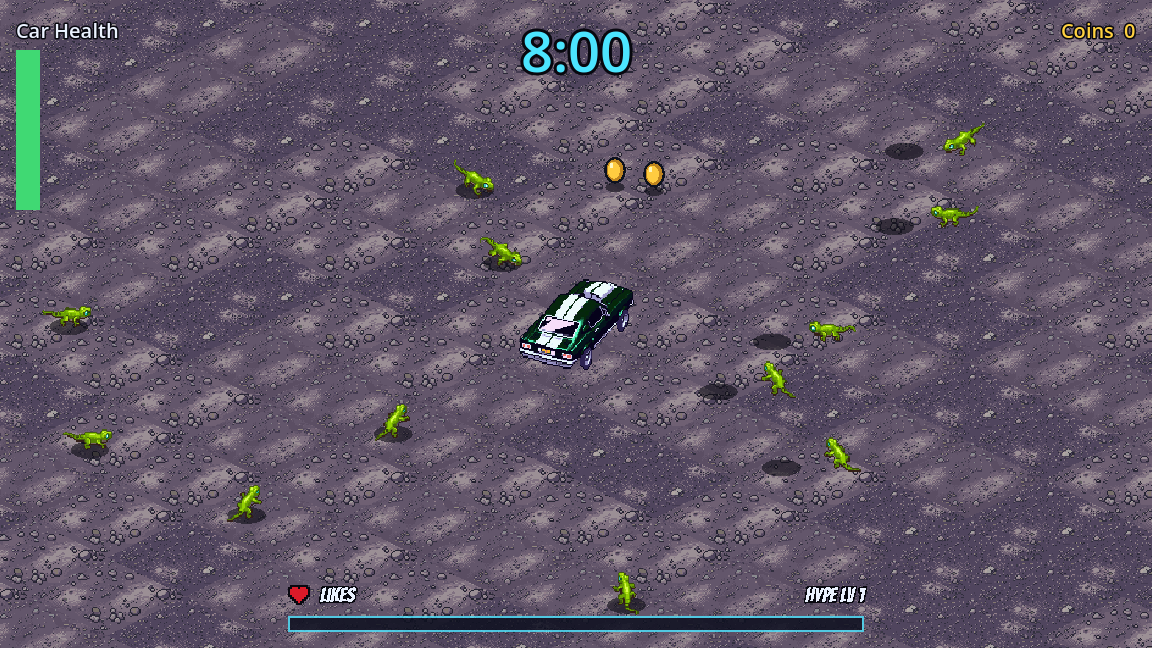
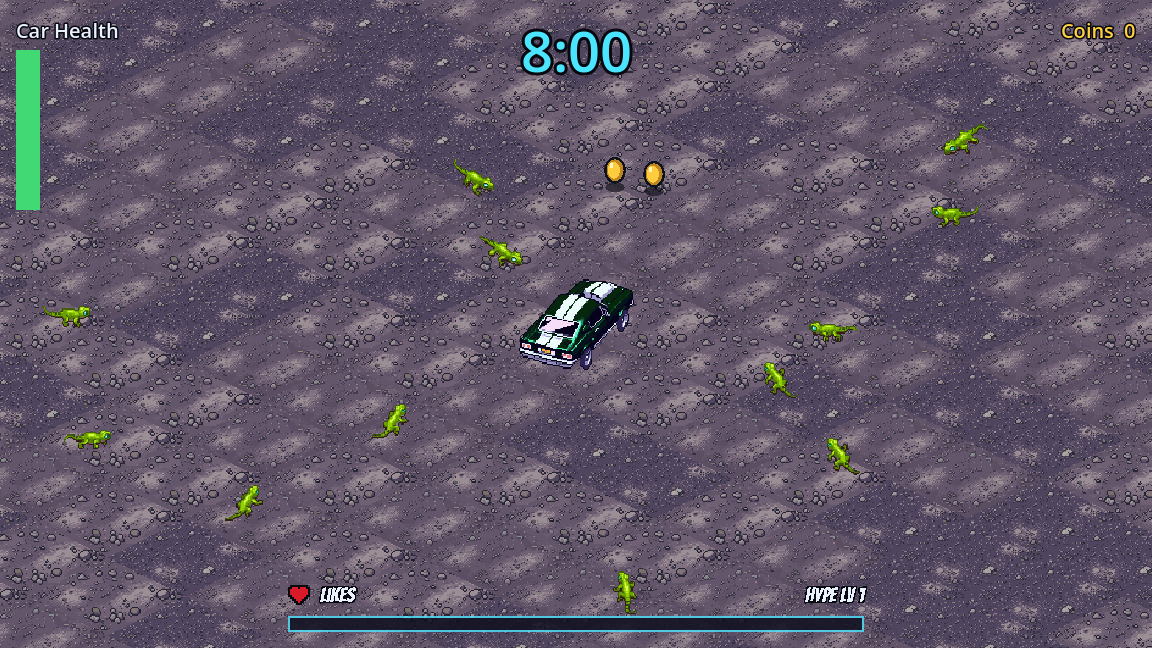
T-068: no shadow under the minions (board tweak)

diff --git a/game/README.md b/game/README.md
@@ -711,7 +711,7 @@ Task T-044 (Enemy Behavior Agent): the MVP minion as Enemies, Decisions describe
 
 - `minion_spawner.gd`: the run's minions. The run scene adds it as `run.minions` (child `Minions`) and calls `bind(run)`. It moves everything in `step(dt)`, once per physics step from `_physics_process` (pausable, so the pause screen and the level-up pause stop the minions and their damage), and does nothing once the run is over. On `run.world_rebuilt` (a new run) it removes every minion and coin and follows the new car and map. `enabled = false` stops it (tests).
 - `minion.gd`: one minion, a `CharacterBody2D` in the run's `PhysicsWorld` (flat world pixels, 16 per unit, like the car) on layer 3 (`enemies`) with mask 1 (obstacles): a circle of `RADIUS_UNITS` (0.5). It slides along walls, buildings and boulders and walks round one it meets head-on (`detour_side`, picked at random per minion); it never pushes or blocks the car. In the groups `enemies` and `minions`.
-- `minion_sprite.gd`: the minion's final art (T-068): 8-frame walk sheets in `art/minion/` (`minion_s/se/e/ne/n.png`, 8 frames of 48 x 48 side by side; the other three directions mirror se, e and ne), drawn at scale 0.5 (16 screen pixels per unit), the direction chosen from the way it walks, 10 frames a second, each minion at a random phase. It stops with the game's pause. Falls back to the old placeholder shape if a sheet is missing. Sheets are built by `tools/build_minion_sheets.py` from `art-archive/T-068/`; `tools/fix_minion_frames.py` holds the free pixel fixes.
+- `minion_sprite.gd`: the minion's final art (T-068): 8-frame walk sheets in `art/minion/` (`minion_s/se/e/ne/n.png`, 8 frames of 48 x 48 side by side; the other three directions mirror se, e and ne), drawn at scale 0.5 (16 screen pixels per unit), the direction chosen from the way it walks, 10 frames a second, each minion at a random phase. It stops with the game's pause. No shadow under it (board tweak, 2026-10-15). Falls back to the old placeholder shape if a sheet is missing. Sheets are built by `tools/build_minion_sheets.py` from `art-archive/T-068/`; `tools/fix_minion_frames.py` holds the free pixel fixes.
 - `coin_sprite.gd`: the placeholder coin drawing, in the isometric view.
 - `coin.gd`: a coin, an `Area2D` on layer 4 (`pickups`) with mask 2 (the car).
 - `enemy_depth.gd`: the minions' and coins' place in the buildings' depth order.

diff --git a/tasks/T-068-minion-art.md b/tasks/T-068-minion-art.md
@@ -123,3 +123,7 @@ Written by the Asset Generation Agent (2026-10-14). Round 1: SAMPLE ONLY; the bo
 - **Screenshot:** art-archive/T-068/screenshot_minions.png (minions around the car, facing the way they walk). Review images: review_all8_directions_dark/light .gif and .png (all 8 directions animated), and earlier ones.
 - **Honest notes:** the walk is a lively trot with short legs; the S view's body turns a little. N view's head turns slightly. Mirrors make the SW/W/NW lizards face the same way light falls reversed; judged in a playtest.
 - **Tests after the LIFT tweak:** one run showed 583 of 584 (one failure I could not reproduce); two reruns gave 584 of 584 passing. I did not identify which test flaked.
+
+### Board tweak (2026-10-15)
+
+Board, word for word: "remove the shadows from the minions please". Changed: `minion_sprite.gd` no longer draws a shadow (removed from the art drawing and from the placeholder fallback, and its `SHADOW_COLOR` constant); the red-check test in `test_minions.gd` no longer lists it; `game/README.md` says there is no shadow. The coin's shadow is untouched. The review GIFs and PNGs only show the sprite sheets, so they never had a shadow; the in-game screenshot art-archive/T-068/screenshot_minions.png was retaken. GUT 584 of 584 passing, Python tool tests 246 OK (1 skipped). Status left in-qa.
